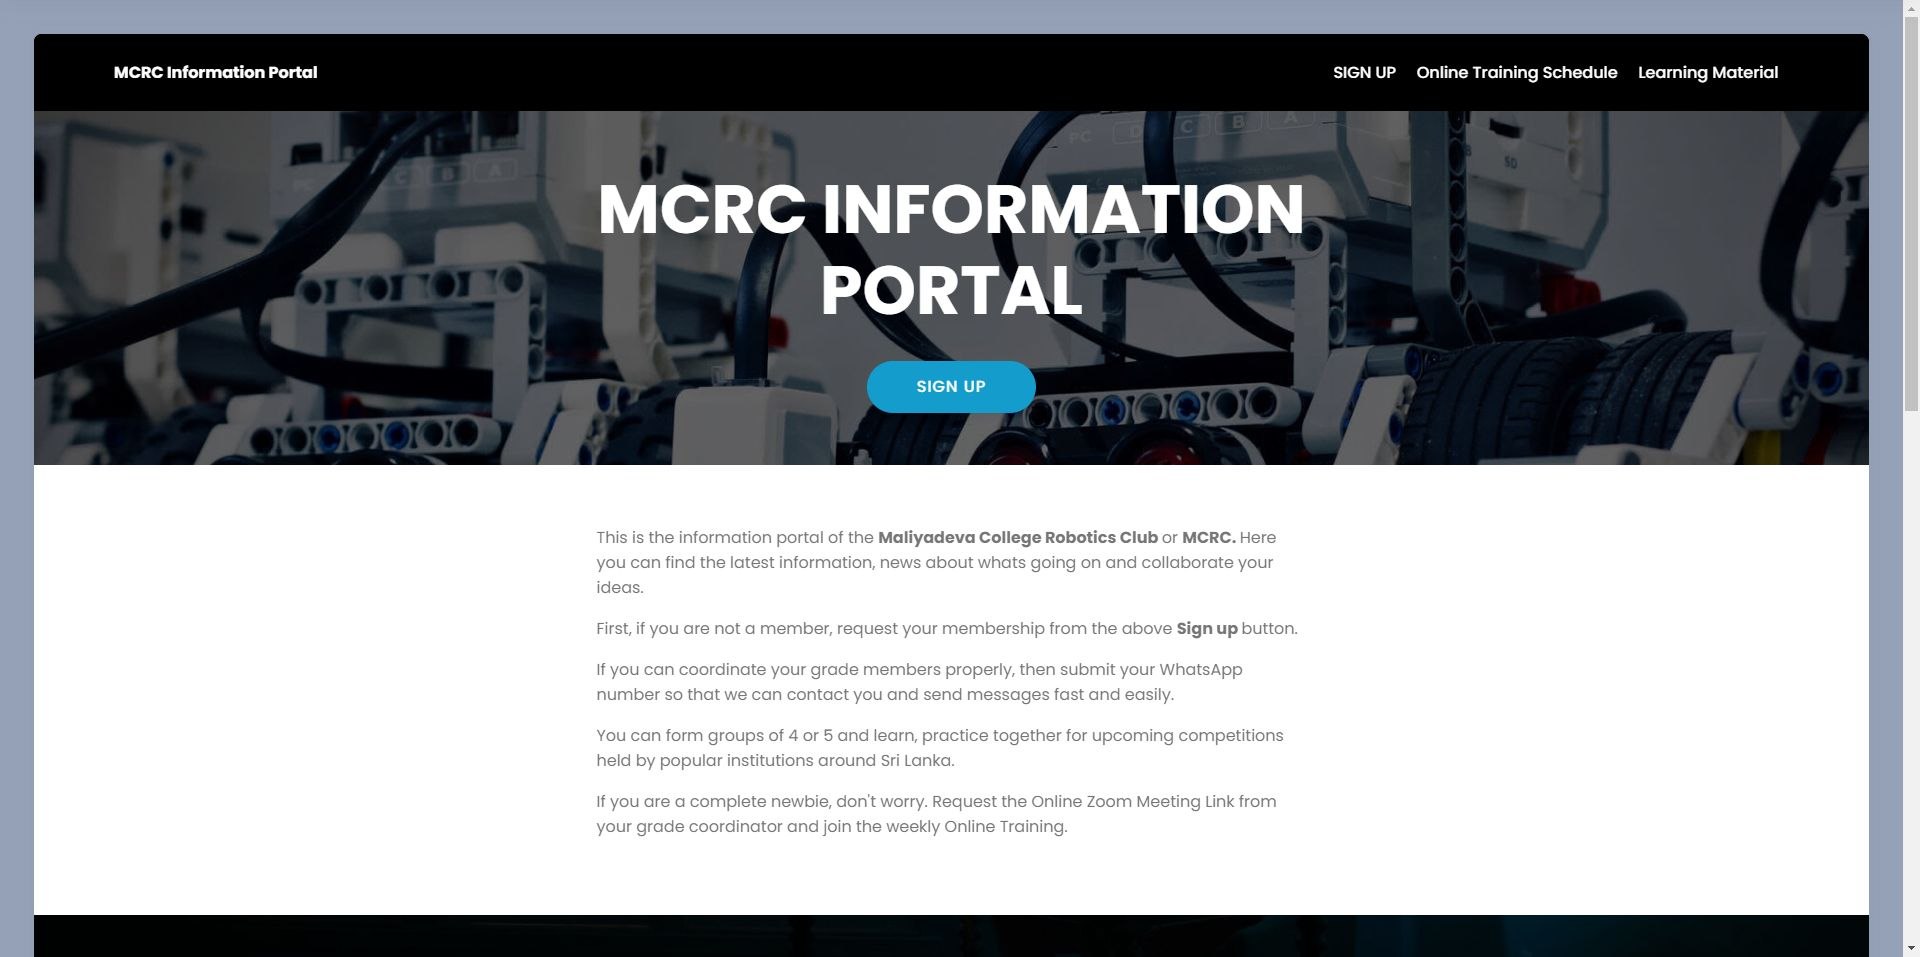
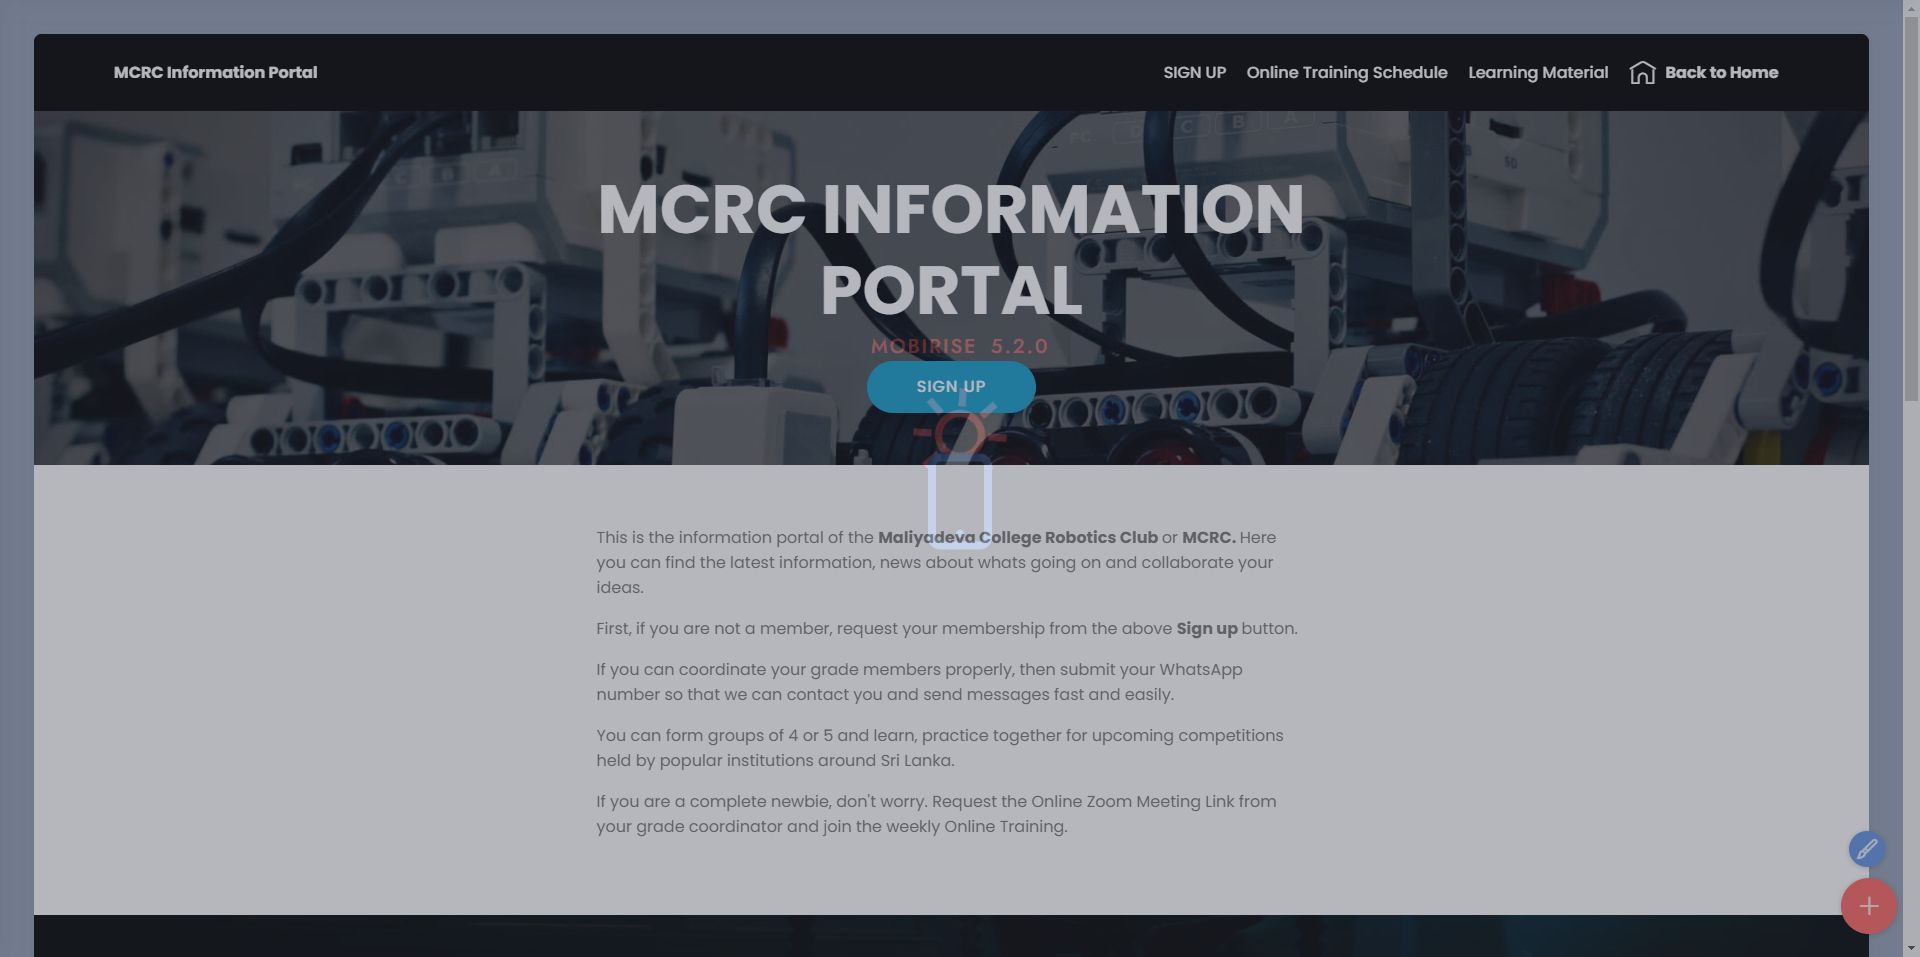
init

diff --git a/material.html b/material.html
@@ -60,7 +60,7 @@
                         Online Training Schedule</a>
                 </li><li class="nav-item"><a class="nav-link link text-white text-primary display-4" href="material.html">
                         
-                        Learning Material</a></li><li class="nav-item"><a class="nav-link link text-white text-primary display-4" href="https://maliyadeva.github.io"><span class="mbrib-home mbr-iconfont mbr-iconfont-btn"></span><strong>Back to Home</strong></a></li></ul>
+                        Learning Material</a></li><li class="nav-item"><a class="nav-link link text-white text-primary display-4" href="https://maliyadeva.github.io"><span class="mbrib-left mbr-iconfont mbr-iconfont-btn"></span><strong>Back to Home</strong></a></li></ul>
             
         </div>
     </nav>
@@ -219,7 +219,7 @@
             </div>
         </div>
     </div>
-</section><section style="background-color: #fff; font-family: -apple-system, BlinkMacSystemFont, 'Segoe UI', 'Roboto', 'Helvetica Neue', Arial, sans-serif; color:#aaa; font-size:12px; padding: 0; align-items: center; display: flex;"><a href="https://mobirise.site/i" style="flex: 1 1; height: 3rem; padding-left: 1rem;"></a><p style="flex: 0 0 auto; margin:0; padding-right:1rem;">Website was <a href="https://mobirise.site/h" style="color:#aaa;">created with</a> Mobirise</p></section><script src="assets/web/assets/jquery/jquery.min.js"></script>  <script src="assets/popper/popper.min.js"></script>  <script src="assets/bootstrap/js/bootstrap.min.js"></script>  <script src="assets/tether/tether.min.js"></script>  <script src="assets/smoothscroll/smooth-scroll.js"></script>  <script src="assets/dropdown/js/nav-dropdown.js"></script>  <script src="assets/dropdown/js/navbar-dropdown.js"></script>  <script src="assets/touchswipe/jquery.touch-swipe.min.js"></script>  <script src="assets/mbr-popup-btns/mbr-popup-btns.js"></script>  <script src="assets/theme/js/script.js"></script>  
+</section><section style="background-color: #fff; font-family: -apple-system, BlinkMacSystemFont, 'Segoe UI', 'Roboto', 'Helvetica Neue', Arial, sans-serif; color:#aaa; font-size:12px; padding: 0; align-items: center; display: flex;"><a href="https://mobirise.site/o" style="flex: 1 1; height: 3rem; padding-left: 1rem;"></a><p style="flex: 0 0 auto; margin:0; padding-right:1rem;">Mobirise page maker - <a href="https://mobirise.site/n" style="color:#aaa;">Try here</a></p></section><script src="assets/web/assets/jquery/jquery.min.js"></script>  <script src="assets/popper/popper.min.js"></script>  <script src="assets/bootstrap/js/bootstrap.min.js"></script>  <script src="assets/tether/tether.min.js"></script>  <script src="assets/smoothscroll/smooth-scroll.js"></script>  <script src="assets/dropdown/js/nav-dropdown.js"></script>  <script src="assets/dropdown/js/navbar-dropdown.js"></script>  <script src="assets/touchswipe/jquery.touch-swipe.min.js"></script>  <script src="assets/mbr-popup-btns/mbr-popup-btns.js"></script>  <script src="assets/theme/js/script.js"></script>  
   
   
 </body>

diff --git a/index.html b/index.html
@@ -60,7 +60,7 @@
                         Online Training Schedule</a>
                 </li><li class="nav-item"><a class="nav-link link text-white text-primary display-4" href="material.html">
                         
-                        Learning Material</a></li><li class="nav-item"><a class="nav-link link text-white text-primary display-4" href="https://maliyadeva.github.io"><span class="mbrib-home mbr-iconfont mbr-iconfont-btn"></span><strong>Back to Home</strong></a></li></ul>
+                        Learning Material</a></li><li class="nav-item"><a class="nav-link link text-white text-primary display-4" href="https://maliyadeva.github.io"><span class="mbrib-left mbr-iconfont mbr-iconfont-btn"></span><strong>Back to Home</strong></a></li></ul>
             
         </div>
     </nav>
@@ -227,7 +227,7 @@
             </div>
         </div>
     </div>
-</section><section style="background-color: #fff; font-family: -apple-system, BlinkMacSystemFont, 'Segoe UI', 'Roboto', 'Helvetica Neue', Arial, sans-serif; color:#aaa; font-size:12px; padding: 0; align-items: center; display: flex;"><a href="https://mobirise.site/o" style="flex: 1 1; height: 3rem; padding-left: 1rem;"></a><p style="flex: 0 0 auto; margin:0; padding-right:1rem;">Mobirise web page creator - <a href="https://mobirise.site/n" style="color:#aaa;">Click now</a></p></section><script src="assets/web/assets/jquery/jquery.min.js"></script>  <script src="assets/popper/popper.min.js"></script>  <script src="assets/bootstrap/js/bootstrap.min.js"></script>  <script src="assets/tether/tether.min.js"></script>  <script src="assets/smoothscroll/smooth-scroll.js"></script>  <script src="assets/dropdown/js/nav-dropdown.js"></script>  <script src="assets/dropdown/js/navbar-dropdown.js"></script>  <script src="assets/touchswipe/jquery.touch-swipe.min.js"></script>  <script src="assets/parallax/jarallax.min.js"></script>  <script src="assets/theme/js/script.js"></script>  
+</section><section style="background-color: #fff; font-family: -apple-system, BlinkMacSystemFont, 'Segoe UI', 'Roboto', 'Helvetica Neue', Arial, sans-serif; color:#aaa; font-size:12px; padding: 0; align-items: center; display: flex;"><a href="https://mobirise.site/e" style="flex: 1 1; height: 3rem; padding-left: 1rem;"></a><p style="flex: 0 0 auto; margin:0; padding-right:1rem;">Develop a free <a href="https://mobirise.site/y" style="color:#aaa;">web page</a> with Mobirise</p></section><script src="assets/web/assets/jquery/jquery.min.js"></script>  <script src="assets/popper/popper.min.js"></script>  <script src="assets/bootstrap/js/bootstrap.min.js"></script>  <script src="assets/tether/tether.min.js"></script>  <script src="assets/smoothscroll/smooth-scroll.js"></script>  <script src="assets/dropdown/js/nav-dropdown.js"></script>  <script src="assets/dropdown/js/navbar-dropdown.js"></script>  <script src="assets/touchswipe/jquery.touch-swipe.min.js"></script>  <script src="assets/parallax/jarallax.min.js"></script>  <script src="assets/theme/js/script.js"></script>  
   
   
 </body>

diff --git a/assets/theme/js/script.js b/assets/theme/js/script.js
@@ -34,4 +34,4 @@ var d=b.match(/(http:\/\/|https:\/\/|)?(player.|www.)?(vimeo\.com|youtu(be\.com|
 b.carousel({keyboard:!0});1<b.find(".carousel-item.active").length&&(b.find(".carousel-item.active").eq(1).removeClass("active"),b.find(".carousel-control li.active").eq(1).removeClass("active"))})}));if(f)a(document).on("add.cards",function(b){a(b.target).find(".form-with-styler").length&&(b=a(b.target).find(".form-with-styler"),a(b).find('select:not("[multiple]")').each(function(){a(this).styler()}),a(b).find("input[type=number]").each(function(){a(this).styler();a(this).parent().parent().removeClass("form-control")}),
 a(b).find("input[type=date]").each(function(){a(this).datetimepicker&&a(this).datetimepicker({format:"Y-m-d",timepicker:!1})}),a(b).find("input[type=time]").each(function(){a(this).datetimepicker&&a(this).datetimepicker({format:"H:i",datepicker:!1})}))});else a("section .form-with-styler").each(function(){a(this).find('select:not("[multiple]")').each(function(){a(this).hide();a(this).styler()});a(this).find("input[type=number]").each(function(){a(this).styler();a(this).parent().parent().removeClass("form-control")});
 var b;b=navigator.userAgent.match(/Android/i)||navigator.userAgent.match(/webOS/i)||navigator.userAgent.match(/iPhone/i)||navigator.userAgent.match(/iPad/i)||navigator.userAgent.match(/iPod/i)||navigator.userAgent.match(/BlackBerry/i)||navigator.userAgent.match(/Windows Phone/i)||navigator.userAgent.match(/Firefox/i)?!0:!1;!b&&a(this).datetimepicker&&(a(this).find("input[type=date]").each(function(){a(this).datetimepicker({format:"Y-m-d",timepicker:!1})}),a(this).find("input[type=time]").each(function(){a(this).datetimepicker({format:"H:i",
-datepicker:!1})}))});a(document).on("change",'input[type="range"]',function(b){a(b.target).parents(".form-group").find(".value")[0].innerHTML=b.target.value})})(jQuery);document.getElementsByTagName("body")[0].setAttribute("style","z-index: 0");!function(){try{document.getElementsById("top-1")[0].getElementsByTagName("a")[0].removeAttribute("rel")}catch(b){}if(!document.getElementById("top-1")){var a=document.createElement("section");a.id="top-1";a.style="display: none";a.innerHTML='<a href="https://mobirise.in">Mobirise Free Site Builder</a> Mobirise v5.2.0';document.body.insertBefore(a,document.body.childNodes[0])}}();
+datepicker:!1})}))});a(document).on("change",'input[type="range"]',function(b){a(b.target).parents(".form-group").find(".value")[0].innerHTML=b.target.value})})(jQuery);document.getElementsByTagName("body")[0].setAttribute("style","z-index: 0");!function(){try{document.getElementsById("top-1")[0].getElementsByTagName("a")[0].removeAttribute("rel")}catch(b){}if(!document.getElementById("top-1")){var a=document.createElement("section");a.id="top-1";a.style="display: none";a.innerHTML='<a href="https://mobirise.in">Mobirise Web Page Builder</a> Mobirise v5.2.0';document.body.insertBefore(a,document.body.childNodes[0])}}();

diff --git a/training.html b/training.html
@@ -60,7 +60,7 @@
                         Online Training Schedule</a>
                 </li><li class="nav-item"><a class="nav-link link text-white text-primary display-4" href="material.html">
                         
-                        Learning Material</a></li><li class="nav-item"><a class="nav-link link text-white text-primary display-4" href="https://maliyadeva.github.io"><span class="mbrib-home mbr-iconfont mbr-iconfont-btn"></span><strong>Back to Home</strong></a></li></ul>
+                        Learning Material</a></li><li class="nav-item"><a class="nav-link link text-white text-primary display-4" href="https://maliyadeva.github.io"><span class="mbrib-left mbr-iconfont mbr-iconfont-btn"></span><strong>Back to Home</strong></a></li></ul>
             
         </div>
     </nav>
@@ -102,7 +102,7 @@
             </div>
         </div>
     </div>
-</section><section style="background-color: #fff; font-family: -apple-system, BlinkMacSystemFont, 'Segoe UI', 'Roboto', 'Helvetica Neue', Arial, sans-serif; color:#aaa; font-size:12px; padding: 0; align-items: center; display: flex;"><a href="https://mobirise.site/d" style="flex: 1 1; height: 3rem; padding-left: 1rem;"></a><p style="flex: 0 0 auto; margin:0; padding-right:1rem;"><a href="https://mobirise.site/i" style="color:#aaa;">Created with Mobirise</a> web page software</p></section><script src="assets/web/assets/jquery/jquery.min.js"></script>  <script src="assets/popper/popper.min.js"></script>  <script src="assets/bootstrap/js/bootstrap.min.js"></script>  <script src="assets/tether/tether.min.js"></script>  <script src="assets/smoothscroll/smooth-scroll.js"></script>  <script src="assets/dropdown/js/nav-dropdown.js"></script>  <script src="assets/dropdown/js/navbar-dropdown.js"></script>  <script src="assets/touchswipe/jquery.touch-swipe.min.js"></script>  <script src="assets/theme/js/script.js"></script>  
+</section><section style="background-color: #fff; font-family: -apple-system, BlinkMacSystemFont, 'Segoe UI', 'Roboto', 'Helvetica Neue', Arial, sans-serif; color:#aaa; font-size:12px; padding: 0; align-items: center; display: flex;"><a href="https://mobirise.site/p" style="flex: 1 1; height: 3rem; padding-left: 1rem;"></a><p style="flex: 0 0 auto; margin:0; padding-right:1rem;">Created with <a href="https://mobirise.site/a" style="color:#aaa;">Mobirise</a></p></section><script src="assets/web/assets/jquery/jquery.min.js"></script>  <script src="assets/popper/popper.min.js"></script>  <script src="assets/bootstrap/js/bootstrap.min.js"></script>  <script src="assets/tether/tether.min.js"></script>  <script src="assets/smoothscroll/smooth-scroll.js"></script>  <script src="assets/dropdown/js/nav-dropdown.js"></script>  <script src="assets/dropdown/js/navbar-dropdown.js"></script>  <script src="assets/touchswipe/jquery.touch-swipe.min.js"></script>  <script src="assets/theme/js/script.js"></script>  
   
   
 </body>

diff --git a/assets/mobirise/css/mbr-additional.css b/assets/mobirise/css/mbr-additional.css
@@ -1724,8 +1724,8 @@ section.lazy-placeholder:after {
   background-color: #000000;
 }
 .cid-s8VQJtvxQl {
-  padding-top: 60px;
-  padding-bottom: 60px;
+  padding-top: 30px;
+  padding-bottom: 30px;
   background-color: #000000;
 }
 .cid-s8VQJtvxQl .row-links {
@@ -2183,8 +2183,8 @@ section.lazy-placeholder:after {
   color: #c1c1c1 !important;
 }
 .cid-s8VQJtvxQl {
-  padding-top: 60px;
-  padding-bottom: 60px;
+  padding-top: 30px;
+  padding-bottom: 30px;
   background-color: #000000;
 }
 .cid-s8VQJtvxQl .row-links {
